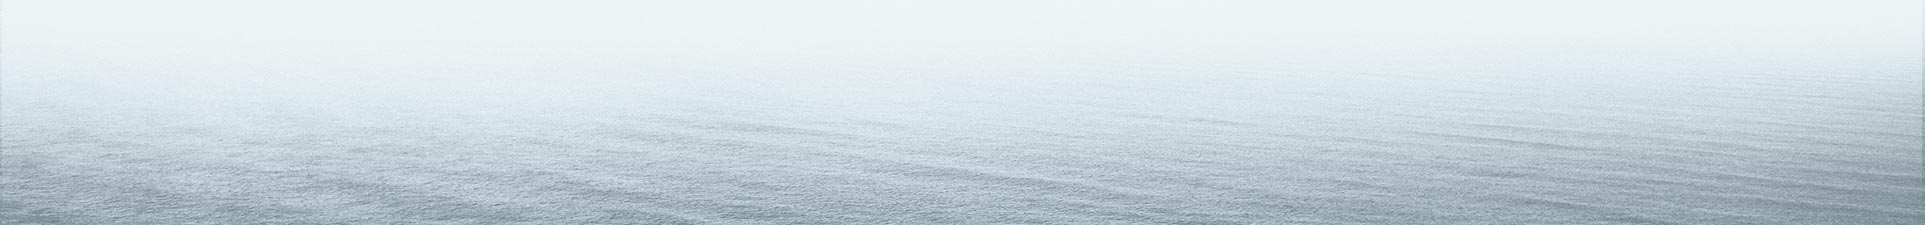
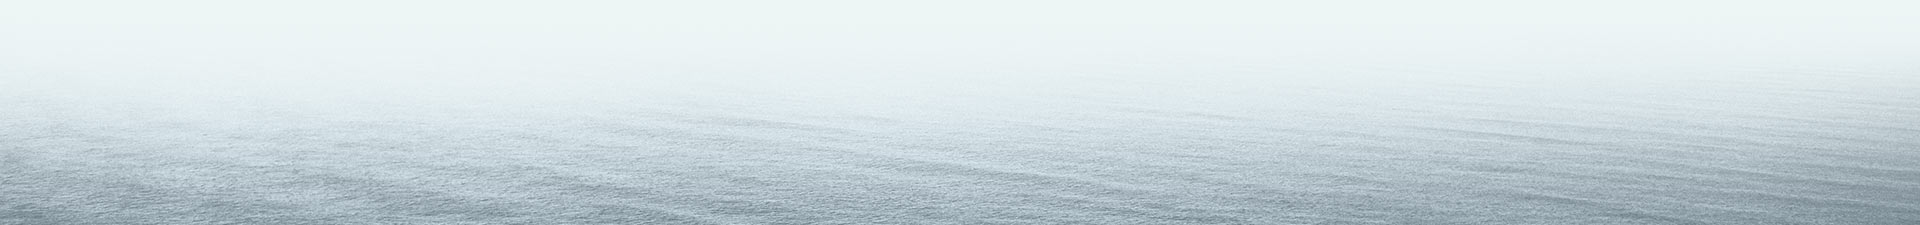
images

diff --git a/src/app/footer/footer.component.html b/src/app/footer/footer.component.html
@@ -3,6 +3,8 @@
     {{date | date:'yyyy'}} © Copyright - All your pizza are belong to us!
   </div>
   <picture>
-    <img src="/assets/footer_lg.jpg" alt="">
+    <source media="(min-width: 120em)" srcset="/assets/footer_xl.jpg 1x">
+    <source media="(min-width: 32.5em)" srcset="/assets/footer_lg.jpg 1x">
+    <img src="/assets/footer_sm.jpg" alt="">
   </picture>
 </footer>
